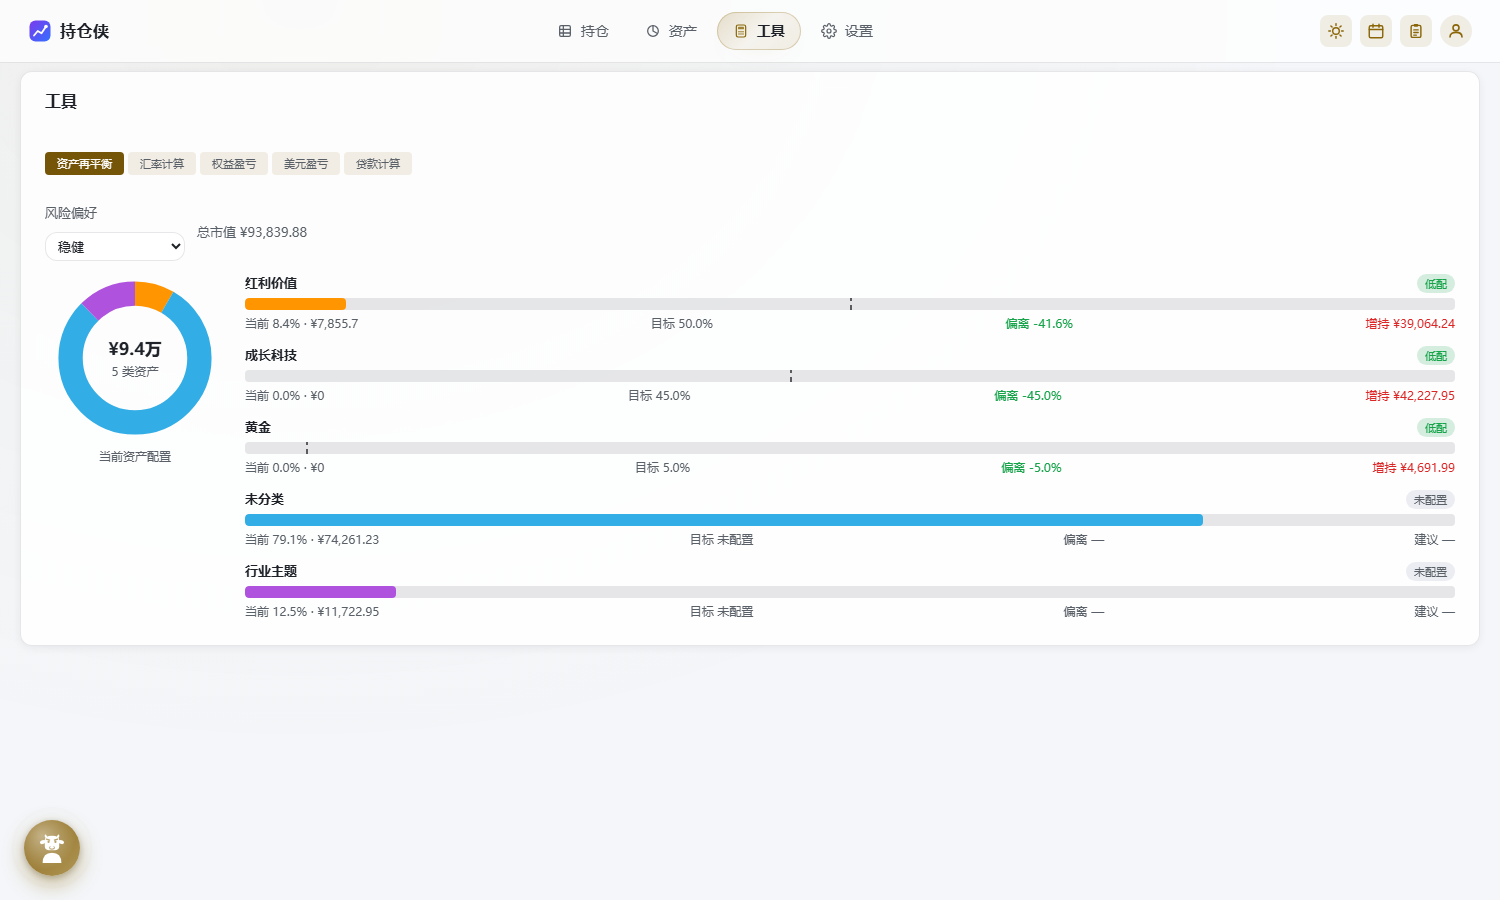
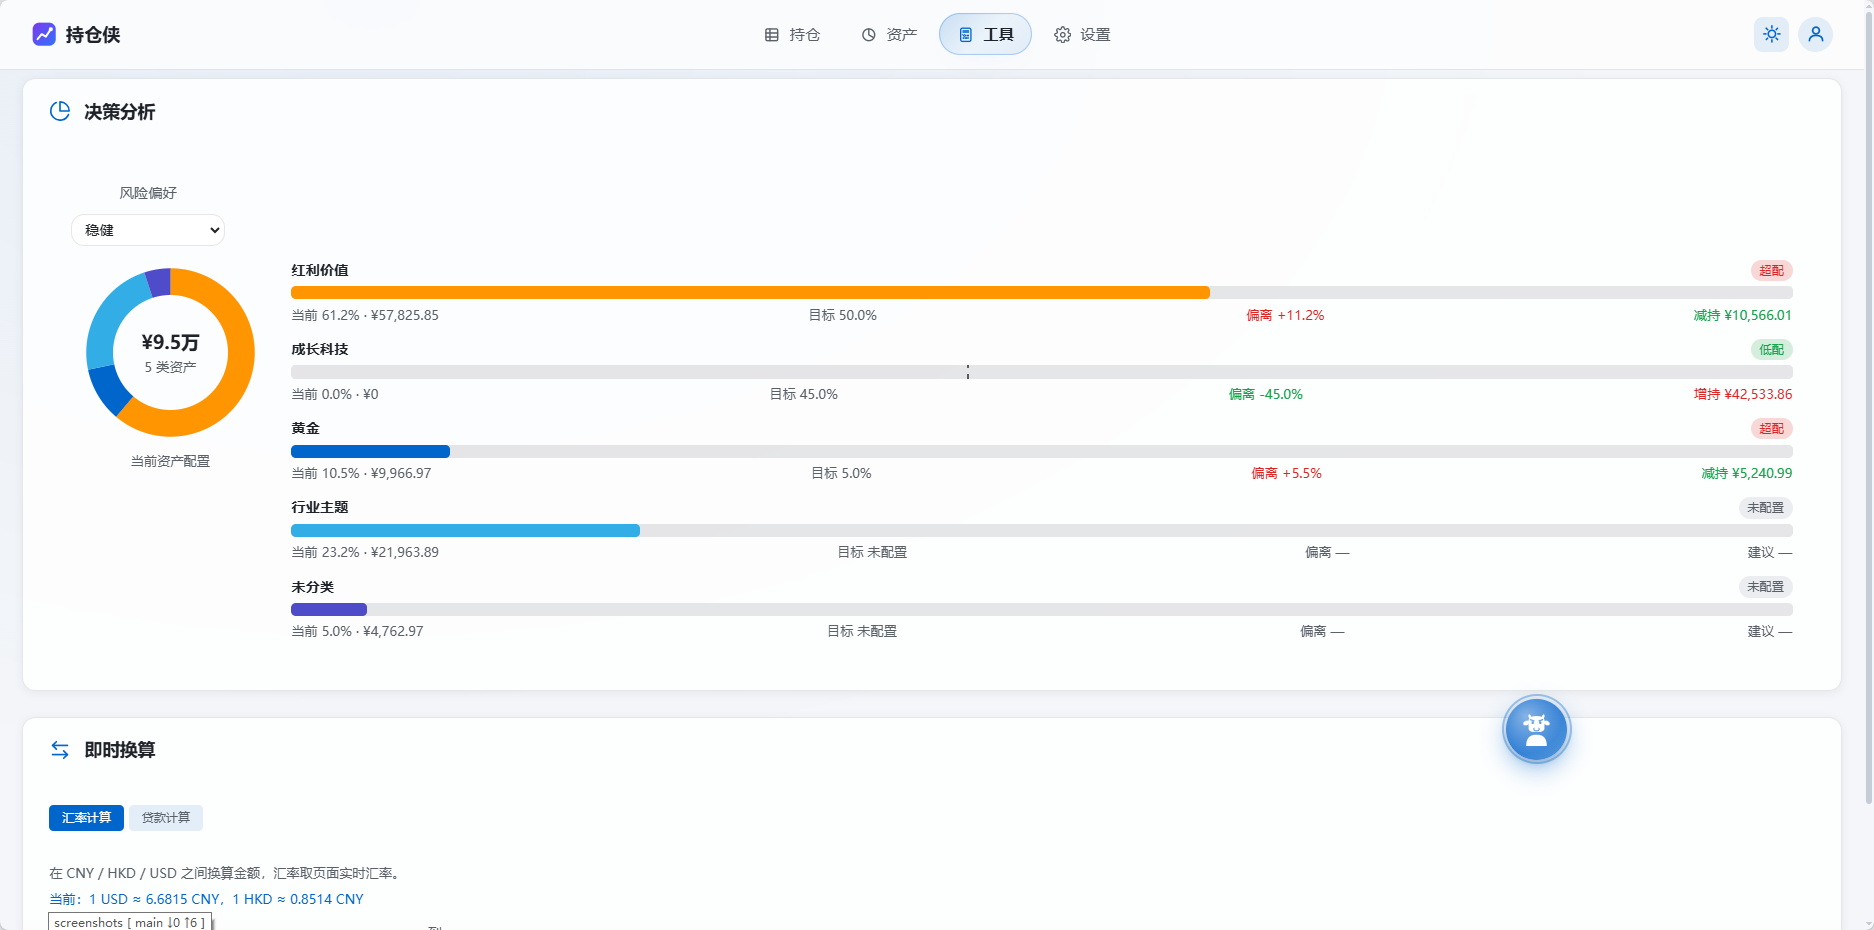
docs+build: ui-design-spec v3.3 合并设计规约；README 截图同步；产物去注释压缩
- 根目录 design.md 并入 docs/ui-design-spec.md（v3.3）：新增 §6 页面骨架/
  标题层级/纵向节奏（分组卡 12/24、弹框行距 12+主分组断点 20+水平 28）；
  §3.4 弹框宽度档以代码实测修正为 380/420/560/660/780/900
- README：移除已下线的调仓计划相关描述与截图（buy-plan.png 删除），
  截图批量更新；工具页文案对齐现功能（汇率/贷款计算）
- build.mjs：dist/index.html 增加注释剥离 + 缩进/空行压缩
  （pre/textarea 源文件均为空标签，剥离安全；产物 75.7KB→59.7KB）

diff --git a/docs/ui-design-spec.md b/docs/ui-design-spec.md
@@ -1,9 +1,9 @@
 # 持仓侠 UI 设计规范
 
-> **v3.2 · 2026-10-16 · 设计规范（已定案）**
+> **v3.3 · 2026-10-19 · 设计规范（已定案）**
 > 落地文件：`web/style.css`（**唯一样式真源**）、`web/index.html`（零样式）、`web/app.js`（仅主题变量注入）
-> 变更摘要：v3.0 → v3.1 — **Hero Banner 首屏视觉锚点 + 背景氛围层增强 + 卡片 hover 升级**
 > 变更摘要：v3.1 → v3.2 — **响应式适配定案（目标设备 / 断点白名单 / 资产构成卡三列布局 / 顶栏筛选行吸顶 / 超宽屏收边 / 安全区）**
+> 变更摘要：v3.2 → v3.3 — **合并根目录 design.md：页面骨架与标题层级、纵向节奏规约（分组卡 12/24、弹框行距 12/主分组断点 20/水平 28）、弹框宽度档以代码实测修正**
 
 ---
 
@@ -251,8 +251,9 @@
 | 内容 | `form` / 直接子 div | **唯一滚动区**：`flex: 1; min-height: 0; overflow-y: auto` |
 | 动作区 | `.modal-actions` | `flex: 0 0 auto` 常驻底部 + `border-top`；右对齐；padding 上下对称 |
 
-宽度档：`340px`（确认）/ `380px`（默认）/ `560px`（表单）/ `780px`（图表）。
+宽度档（v3.3 以代码实测修正）：`380px`（默认）/ `420px`（≤640 移动端上限）/ `560px`（#modal 持仓表单）/ `660px`（#calModal 日历）/ `780px`（.chart-card 图表）/ `900px`（#pnlModal 盈亏明细），一律叠 `min(…, 94vw)`。
 入场：`translateY(12px) scale(.98)` → 归零。
+纵向节奏（行距 / 主分组断点 / actions 对称）见 **§6.3**。
 
 ### 3.5 输入控件
 
@@ -530,6 +531,82 @@ CSS 侧消费：
 | 阴影与遮罩 | `rgba(0,0,0,.5)`、`rgba(15,23,42,.12)` | 无复用语义 |
 | 固定深色浮层内的取值 | `.trend-tip` 的 `#bcc0c7 / #ff7875 / #95de64 / #8a8f99` | 该浮层背景恒为深色，不随主题翻转 |
 | 2px 级光学值 | `gap: 2px`、`border-radius: 2px`、`1px` 描线 | 属视觉微调，不在网格体系内 |
+
+---
+
+## 6. 页面骨架、标题层级与纵向节奏（v3.3 合并自根目录 design.md）
+
+> 生效范围：`web/` 全部页面。维护约定：**改动布局间距前先读本文**；新规约落地后同步更新本文与 `web/check-ui.mjs` 校验白名单；新页面/新组件在 §6 补条目。
+
+### 6.1 首页骨架（v3.3 定案：持仓/理财 顶层切换）
+
+```
+header（顶栏）
+hero 区        ← 页面级 KPI（.hat-side 贴最右）
+list-bar       ← 搜索/筛选 + 操作按钮
+tbl-meta-bar   ← 左：tbl-desc「持仓（N）」；右：分段切换（.view-toggle + .vt-indicator，持仓/理财）
+内容区         ← 理财 #homeWealthBox ／ 持仓 #holdingsBySource（二选一）
+```
+
+- **切换行必须位于内容区 DOM 之前**（v3.3 修复：理财表格曾渲染在切换条上方，长表格把切换条挤出视野）。
+- 理财态 `tbl-desc` 留空——`renderWealth` 自带「理财（N）」小节标题，避免重复。
+- DOM 顺序：`.tbl-meta-bar` → `#homeWealthBox` → `#holdingsBySource`。
+
+### 6.2 标题层级（从严到松）
+
+| 层级 | 元素 | 字号/字重 | 备注 |
+|---|---|---|---|
+| L1 页面主数字 | hero | 26~28px / 700 | 唯一大字层 |
+| L2 弹框标题 | `.modal-card > h2` | `--fs-xl` / 700 | padding `24 28 12` |
+| L3 分组标题 | `.settings-group-title` / `.asset-section-head h3` | `--fs-lg` / 700 | |
+| L4 行描述 | `.tbl-desc` / `.settings-group-desc` | `--fs-sm` / 400 / muted | |
+
+### 6.3 纵向节奏（核心规约）
+
+**设置/AI 分组卡（`.pano-open .settings-group`）**：
+
+```
+┌ 标题   padding: 16 24 8            ┐
+│ 描述   padding: 4 24 12            │  ← 标题↔描述 = 12px
+│ 正文   padding: 12 24 24, 内部 gap 16 │  ← 描述↔内容 = 24px
+└                                    ┘
+```
+
+- 分组与分组之间：`settings-layout` gap = `--sp-6`（24px）。
+- 折叠态（`.collapsible.collapsed`）：只留标题行，标题 padding-bottom 补 `--sp-4`。
+- 间距 token 语义速记：`--sp-3`(12px)=**表单行距、分组标题↔描述**；`--sp-5`(20px)=**弹框主分组断点、actions 区上下**；`--sp-6`(24px)=卡片/分组水平内边距。
+
+**弹框（`.modal-card`）纵向节奏**：
+
+| 部位 | 规约 |
+|---|---|
+| 标题 `h2` | padding `24 28 12`，`--fs-xl`/700，flex-shrink:0 |
+| 滚动区 `form`/`.m-body` | padding `4 28`，flex:1 + overflow-y |
+| **普通行距** | label/行容器 `margin-bottom: --sp-3`（12px），全弹框统一 |
+| **主分组断点** | 首行（名称/代码联想）之后升到 20px：`#form > .f-search-label { margin-bottom: --sp-5 }` |
+| actions 区 | padding `20 28`，上描线，上下 padding 必须对称（防按钮贴底被裁） |
+| 水平内边距 | 28px 统一（h2/p/form/m-body/actions 同宽对齐） |
+
+**列表/表格区**：
+
+- `.tbl-meta-bar` 与内容区间距 16px。
+- 表头 11px（`--fs-xs`）/ td 13px（`--fs-md`）/ 数值列 `td.num` mono + tabular-nums。
+- **表格中性数字一律 `--text-muted`**（`td.num:not(.up):not(.down)`）；新红绿规则必须 `:not()` 排除中性。
+
+### 6.4 组件细则（补充条目，与 §3 重复处不另立）
+
+- badge：10px / 圆角 4 / 浅底 12% 透明度。
+- **弹框显隐兜底铁律**：凡元素自带 `display` 规则（如 `display:grid` 面板），必须显式配 `[hidden]{display:none}`，否则 `hidden` 属性被类规则压过而失效。
+- 动效曲线统一 `cubic-bezier(.32,.72,0,1)` 或 `var(--e)`，时长 0.12~0.2s。
+
+### 6.5 合规校验
+
+```bash
+node --check web/app.js        # 语法
+node web/check-ui.mjs          # 设计规范 12 项（含 4px 网格、语义色字面量、断点白名单）
+```
+
+新增间距必须过 4px 网格检查（§5 同款校验）。
 
 ---
 

diff --git a/README.md b/README.md
@@ -7,7 +7,7 @@
 >
 > 在牛回来之前，先把家底交给 **持仓侠（MoneyComes）**：股票、基金、理财、现金、负债、收支一个账本全收；盈亏自动算、历史天天记；房贷车贷到点自动提醒你别逾期。牛来牛去，心里有数。
 
-> 自托管的多用户个人投资持仓看板，统一管理 **A 股 / 美股 / 港股 / 基金** 持仓（含理财）/ 现金 / 负债 / 流水 / 收支等。自动刷新行情（不含理财）、计算盈亏、记录历史，提供盈亏日历、技术分析/**基金关联股票代码**、动态调仓计划与 AI 助手。桌面与移动端自适应。
+> 自托管的多用户个人投资持仓看板，统一管理 **A 股 / 美股 / 港股 / 基金** 持仓（含理财）/ 现金 / 负债 / 流水 / 收支等。自动刷新行情（不含理财）、计算盈亏、记录历史，提供盈亏日历、技术分析/**基金关联股票代码**与 AI 助手。桌面与移动端自适应。
 
 ## 📖 目录
 
@@ -55,15 +55,7 @@
 
 - 资产再平衡：按风险偏好设定各类资产目标占比，对比实际分布并标注达标状态。
 - 汇率计算：CNY / HKD / USD 实时汇率互换算。
-- 权益盈亏：记录并计算权益类资产的买入成本与盈亏。
-- 美元盈亏：记录并计算美元资产的买入成本与盈亏（自动折算人民币）。
-- 贷款计算器：等额本息 / 等额本金，逐月还款与本金利息构成可视化。
-
-**调仓计划**
-
-- 净值刷新时自动为基金 / 亏损股票计算补仓档位，并显示触发徽标。
-- 「标记已补 / 已减」一键落库，联动子账户余额并记流水。
-- 支持手动添加操作计划，与自动档位同屏管理。
+- 贷款计算：等额本息 / 等额本金，逐月还款与本金利息构成可视化。
 
 **MCP 服务**
 
@@ -93,7 +85,6 @@
 |        **盈亏日历**<br /><img src="docs/screenshots/calendar-pnl.png" width="760" alt="盈亏日历">        |
 |     **技术分析（QQQ）**<br /><img src="docs/screenshots/analysis.png" width="760" alt="技术分析（QQQ）">     |
 |      **更新理财持仓**<br /><img src="docs/screenshots/wealth-update.png" width="760" alt="更新理财持仓">     |
-|        **动态调仓计划**<br /><img src="docs/screenshots/buy-plan.png" width="760" alt="动态调仓计划">        |
 |      **编辑收支计划**<br /><img src="docs/screenshots/cashflow-plan.png" width="760" alt="编辑收支计划">     |
 |        **AI 助手**<br /><img src="docs/screenshots/ai-assistant.png" width="760" alt="AI 助手">        |
 
@@ -202,7 +193,6 @@ go build -o portfolio .      # 产物 ./portfolio
 | -------- | -------------- |
 | 每次更新（默认） | 任何手动 / 自动刷新都推送 |
 | 仅收盘后     | 仅定时快照推送        |
-| 仅补仓信号    | 仅在有补仓档位触发时推送   |
 
 ## 贡献与支持
 
